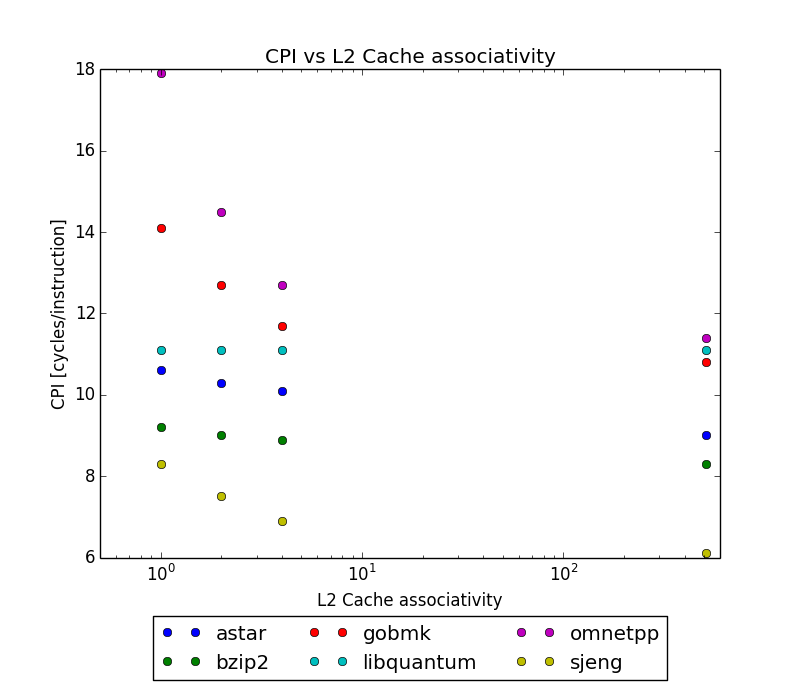
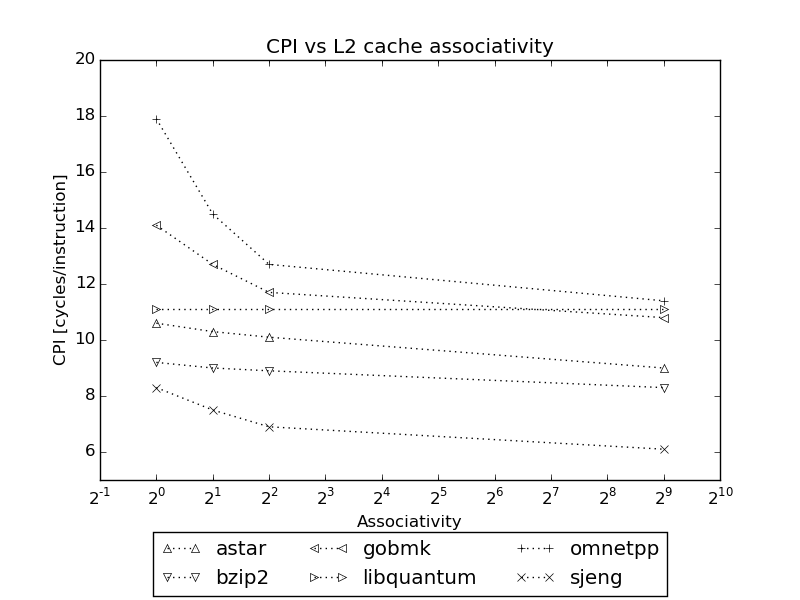
update plots for black-and-white

diff --git a/support/stats.py b/support/stats.py
@@ -354,10 +354,13 @@ def strip_header_footer_empty(lines, divider_lines):
 
 def plot_results(traces, configs,
                  title, independent_name, dependent_name,
-                 independent_getter, dependent_getter, log_x=False, x_limits=None):
+                 independent_getter, dependent_getter,
+                 log_x=False, x_limits=None, y_limits=None,ls=None):
     independent = {}
     dependent = {}
     markers = ['^', 'v', '<', '>', '+', 'x', '|', '_']
+    if ls is None:
+        ls = ':'
     for i, trace in enumerate(traces):
         independent[trace] = []
         dependent[trace] = []
@@ -367,7 +370,7 @@ def plot_results(traces, configs,
             dependent[trace].append(dependent_getter(r))
 
         independent[trace], dependent[trace] = [list(x) for x in zip(*sorted(zip(independent[trace], dependent[trace]), key=lambda pair: pair[0]))]
-        plt.plot(independent[trace], dependent[trace], label=trace, marker=markers[i], fillstyle='none', color='k', linestyle=':')
+        plt.plot(independent[trace], dependent[trace], label=trace, marker=markers[i], fillstyle='none', color='k', linestyle=ls)
     plt.xlabel(independent_name)
     plt.ylabel(dependent_name)
     plt.title(title)
@@ -376,9 +379,11 @@ def plot_results(traces, configs,
     ax.legend(handles, labels, loc='upper center', bbox_to_anchor=(.5, -0.1), ncol=3)
     plt.gcf().subplots_adjust(bottom=0.2)
     if log_x:
-        ax.set_xscale('log')
+        ax.set_xscale('log', basex=2)
     if x_limits:
         plt.xlim(x_limits)
+    if y_limits:
+        plt.ylim(y_limits)
     plt.show()
 
 if __name__ == "__main__":
@@ -467,123 +472,130 @@ if __name__ == "__main__":
     #     cpi_ideal
     #     cpi_ideal_misaligned
 
-    #traces = ['sjeng']
-    #configs = ['default', 'MemBandwidth-16', 'MemBandwidth-32', 'MemBandwidth-64']
-    #plot_results(traces, configs,
-    #             'CPI vs Memory Bandwidth',
-    #             'Main memory bandwidth [bytes]',
-    #             'Overall CPI [cycles/instruction]',
-    #             lambda r: r.memory_system.main_mem.chunksize,
-    #             lambda r: r.cycles.cpi)
-    #plot_results(traces, configs,
-    #             'Main Memory Cost vs Memory Bandwidth',
-    #             'Main memory bandwidth [bytes]',
-    #             'Main memory cost [dollars]',
-    #             lambda r: r.memory_system.main_mem.chunksize,
-    #             lambda r: r.memory_system.main_mem.cost)
-    #plot_results(traces, configs,
-    #             'CPI vs Main Memory Cost',
-    #             'Main memory cost [dollars]',
-    #             'Overall CPI [cycles/instruction]',
-    #             lambda r: r.memory_system.main_mem.cost,
-    #             lambda r: r.cycles.cpi)
-
-    #traces = ['astar', 'bzip2', 'gobmk', 'libquantum', 'omnetpp', 'sjeng']
-    #configs = ['default', 'L1-small', ]
-    #plot_results(traces, configs,
-    #            'L1 Dcache miss rate vs L1 Dcache size',
-    #             'L1 Dcache size',
-    #             'Miss rate [percent]',
-    #             lambda r: r.memory_system.l1d_cache.size,
-    #             lambda r: r.memory_system.l1d_cache.miss_rate)
-    # traces = ['astar', 'bzip2', 'gobmk', 'libquantum', 'omnetpp', 'sjeng']
-    # configs = ['default', 'L1-small', ]
-    # plot_results(traces, configs,
-    #              'L1 Dcache hit rate vs L1 Dcache size',
-    #              'L1 Dcache size',
-    #              'Hit rate [percent]',
-    #              lambda r: r.memory_system.l1d_cache.size,
-    #              lambda r: r.memory_system.l1d_cache.hit_rate)
-    # traces = ['astar', 'bzip2', 'gobmk', 'libquantum', 'omnetpp', 'sjeng']
-    # configs = ['default', 'All-small', ]
-    # plot_results(traces, configs,
-    #              'L2 Cache miss rate vs L2 Cache size',
-    #              'L2 Cache size',
-    #              'Miss rate [percent]',
-    #              lambda r: r.memory_system.l2_cache.size,
-    #              lambda r: r.memory_system.l2_cache.miss_rate)
-    # traces = ['astar', 'bzip2', 'gobmk', 'libquantum', 'omnetpp', 'sjeng']
-    # configs = ['default', 'All-small', ]
-    # plot_results(traces, configs,
-    #              'L2 Cache hit rate vs L2 Cache size',
-    #              'L2 Cache size',
-    #              'Hit rate [percent]',
-    #              lambda r: r.memory_system.l2_cache.size,
-    #              lambda r: r.memory_system.l2_cache.hit_rate)
-    # traces = ['astar', 'bzip2', 'gobmk', 'libquantum', 'omnetpp', 'sjeng']
-    # configs = ['default', 'L1-small']
-    # plot_results(traces, configs,
-    #              'CPI vs L1 Dcache Size',
-    #              'L1 Dcache size',
-    #              'Overall CPI [cycles/instruction',
-    #              lambda r: r.memory_system.l1d_cache.size,
-    #              lambda r: r.cycles.cpi,)
-    # traces = ['astar', 'bzip2', 'gobmk', 'libquantum', 'omnetpp', 'sjeng']
-    # configs = ['default', 'All-small']
-    # plot_results(traces, configs,
-    #              'CPI vs L2 Cache Size',
-    #              'L2 Cache size',
-    #              'Overall CPI [cycles/instruction',
-    #              lambda r: r.memory_system.l2_cache.size,
-    # #              lambda r: r.cycles.cpi,)
-    # traces = ['astar', 'bzip2', 'gobmk', 'libquantum', 'omnetpp', 'sjeng']
-    # configs = ['default', 'All-FA', 'All-2way', 'All-4way']
-    # plot_results(traces, configs,
-    #              'L1 Icache miss rate vs L1 Icache associativity',
-    #              'L1 Icache associativity',
-    #              'L1 Icache miss rate',
-    #              lambda r: r.memory_system.l1i_cache.ways,
-    #              lambda r: r.memory_system.l1i_cache.miss_rate, log_x=True, x_limits = [0.5, 600])
-    # traces = ['astar', 'bzip2', 'gobmk', 'libquantum', 'omnetpp', 'sjeng']
-    # configs = ['default', 'All-FA', 'All-2way', 'All-4way']
-    # plot_results(traces, configs,
-    #              'CPI vs L1 Dcache associativity',
-    #              'L1 Dcache associativity',
-    #              'CPI [cycles/instruction]',
-    #              lambda r: r.memory_system.l1d_cache.ways,
-    #              lambda r: r.cycles.cpi, log_x=True, x_limits = [0.5, 600])
     traces = ['astar', 'bzip2', 'gobmk', 'libquantum', 'omnetpp', 'sjeng']
-    configs = ['default', 'All-FA', 'All-2way', 'All-4way']
+    configs = ['default', 'L1-small']
     plot_results(traces, configs,
-                 'CPI vs L1 Icache associativity',
-                 'L1 Icache associativity',
+                 'Instruction cache miss rate vs size',
+                 'Cache size [bytes]',
+                 'Miss rate [percent]',
+                 lambda r: r.memory_system.l1i_cache.size,
+                 lambda r: r.memory_system.l1i_cache.miss_rate,
+                 x_limits=[3500, 9000], y_limits=[-1, 7])
+
+    traces = ['astar', 'bzip2', 'gobmk', 'libquantum', 'omnetpp', 'sjeng']
+    configs = ['default', 'L1-small']
+    plot_results(traces, configs,
+                 'Data cache miss rate vs size',
+                 'cache size [bytes]',
+                 'Miss rate [percent]',
+                 lambda r: r.memory_system.l1d_cache.size,
+                 lambda r: r.memory_system.l1d_cache.miss_rate,
+                 x_limits=[3500, 9000])
+
+    traces = ['astar', 'bzip2', 'gobmk', 'libquantum', 'omnetpp', 'sjeng']
+    configs = ['default', 'All-small']
+    plot_results(traces, configs,
+                 'L2 cache miss rate vs size',
+                 'Cache size [bytes]',
+                 'Miss rate [percent]',
+                 lambda r: r.memory_system.l2_cache.size,
+                 lambda r: r.memory_system.l2_cache.miss_rate,
+                 x_limits=[15000, 34000], y_limits=[25, 80])
+
+    traces = ['astar', 'bzip2', 'gobmk', 'libquantum', 'omnetpp', 'sjeng']
+    configs = ['default', 'L1-2way', 'L1-8way', 'All-FA']
+    plot_results(traces, configs,
+                 'Instruction cache miss rate vs associativity',
+                 'Associativity',
+                 'Miss rate [percent]',
+                 lambda r: r.memory_system.l1i_cache.ways,
+                 lambda r: r.memory_system.l1i_cache.miss_rate,
+                 log_x=True, x_limits=[0.5, 512], y_limits=[-0.5, 4.5])
+
+    traces = ['astar', 'bzip2', 'gobmk', 'libquantum', 'omnetpp', 'sjeng']
+    configs = ['default', 'L1-2way', 'L1-8way', 'All-FA']
+    plot_results(traces, configs,
+                 'Data cache miss rate vs associativity',
+                 'Associativity',
+                 'Miss rate [percent]',
+                 lambda r: r.memory_system.l1d_cache.ways,
+                 lambda r: r.memory_system.l1d_cache.miss_rate,
+                 log_x=True, x_limits=[0.5, 512], y_limits=[1, 9.5])
+
+    traces = ['astar', 'bzip2', 'gobmk', 'libquantum', 'omnetpp', 'sjeng']
+    configs = ['default', 'All-2way', 'All-4way', 'All-FA']
+    plot_results(traces, configs,
+                 'L2 cache miss rate vs associativity',
+                 'Associativity',
+                 'Miss rate [percent]',
+                 lambda r: r.memory_system.l2_cache.ways,
+                 lambda r: r.memory_system.l2_cache.miss_rate,
+                 log_x=True, x_limits=[0.5, 1024])
+
+    traces = ['astar', 'bzip2', 'gobmk', 'libquantum', 'omnetpp', 'sjeng']
+    configs = ['default', 'L1-small']
+    plot_results(traces, configs,
+                 'CPI vs L1 cache size',
+                 'Cache size [bytes]',
+                 'CPI [cycles/instruction]',
+                 lambda r: r.memory_system.l1i_cache.size,
+                 lambda r: r.cycles.cpi,
+                 x_limits=[3500,8700], y_limits=[7,23])
+
+    traces = ['astar', 'bzip2', 'gobmk', 'libquantum', 'omnetpp', 'sjeng']
+    configs = ['default', 'All-small']
+    plot_results(traces, configs,
+                 'CPI vs L2 cache size',
+                 'Cache size [bytes]',
+                 'CPI [cycles/instruction]',
+                 lambda r: r.memory_system.l2_cache.size,
+                 lambda r: r.cycles.cpi,
+                 x_limits=[15000, 34000], y_limits=[6, 31])
+
+    traces = ['astar', 'bzip2', 'gobmk', 'libquantum', 'omnetpp', 'sjeng']
+    configs = ['default', 'L1-2way', 'L1-8way', 'All-FA']
+    plot_results(traces, configs,
+                 'CPI vs L1 cache associativity',
+                 'Associativity',
                  'CPI [cycles/instruction]',
                  lambda r: r.memory_system.l1i_cache.ways,
-                 lambda r: r.cycles.cpi, log_x=True, x_limits = [0.5, 600])
-    # traces = ['astar', 'bzip2', 'gobmk', 'libquantum', 'omnetpp', 'sjeng']
-    # configs = ['default','L1-small']
-    # plot_results(traces, configs,
-    #              'CPI vs Total memory system cost',
-    #              'Cost [dollars]',
-    #              'CPI [cycles/instruction]',
-    #              lambda r: r.memory_system.cost(),
-    #              lambda r: r.cycles.cpi)
-    # traces = ['astar', 'bzip2', 'gobmk', 'libquantum', 'omnetpp', 'sjeng']
-    # configs = ['default', 'L1-small', ]
-    # plot_results(traces, configs,
-    #            'L1 Icache miss rate vs L1 Icache size',
-    #             'L1 Icache size',
-    #             'Miss rate [percent]',
-    #             lambda r: r.memory_system.l1i_cache.size,
-    #             lambda r: r.memory_system.l1i_cache.miss_rate)
-    # traces = ['astar', 'bzip2', 'gobmk', 'libquantum', 'omnetpp', 'sjeng']
-    # configs = ['default', 'L1-small']
-    # plot_results(traces, configs,
-    #              'CPI vs L1 Icache Size',
-    #              'L1 Icache size',
-    #              'Overall CPI [cycles/instruction',
-    #              lambda r: r.memory_system.l1i_cache.size,
-    #              lambda r: r.cycles.cpi,)
+                 lambda r: r.cycles.cpi,
+                 log_x=True, x_limits=[0.5, 512], y_limits=[5, 20])
 
+    traces = ['astar', 'bzip2', 'gobmk', 'libquantum', 'omnetpp', 'sjeng']
+    configs = ['default', 'All-2way', 'All-4way', 'All-FA']
+    plot_results(traces, configs,
+                 'CPI vs L2 cache associativity',
+                 'Associativity',
+                 'CPI [cycles/instruction]',
+                 lambda r: r.memory_system.l2_cache.ways,
+                 lambda r: r.cycles.cpi,
+                 log_x=True, x_limits=[0.5, 1024], y_limits=[5, 20])
 
+    traces = ['astar', 'bzip2', 'gobmk', 'libquantum', 'omnetpp', 'sjeng']
+    configs = ['All-2way', 'All-4way', 'All-FA', 'All-small', 'default', 'L1-2way', 'L1-8way', 'L1-small', 'L1-small-4way']
+    plot_results(traces, configs,
+                 'CPI vs total memory system cost',
+                 'Cost [dollars]',
+                 'CPI [cycles/instruction]',
+                 lambda r: r.memory_system.cost(),
+                 lambda r: r.cycles.cpi, ls='')
+
+    traces = ['sjeng']
+    configs = ['default', 'MemBandwidth-16', 'MemBandwidth-32', 'MemBandwidth-64', 'MemBandwidth-128']
+    plot_results(traces, configs,
+                 'CPI vs Memory Bandwidth',
+                 'Main memory bandwidth [bytes]',
+                 'Overall CPI [cycles/instruction]',
+                 lambda r: r.memory_system.main_mem.chunksize,
+                 lambda r: r.cycles.cpi)
+
+    traces = ['sjeng']
+    configs = ['default', 'MemBandwidth-16', 'MemBandwidth-32', 'MemBandwidth-64', 'MemBandwidth-128']
+    plot_results(traces, configs,
+                 'CPI vs Main Memory Cost',
+                 'Main memory cost [dollars]',
+                 'Overall CPI [cycles/instruction]',
+                 lambda r: r.memory_system.main_mem.cost,
+                 lambda r: r.cycles.cpi)
 
